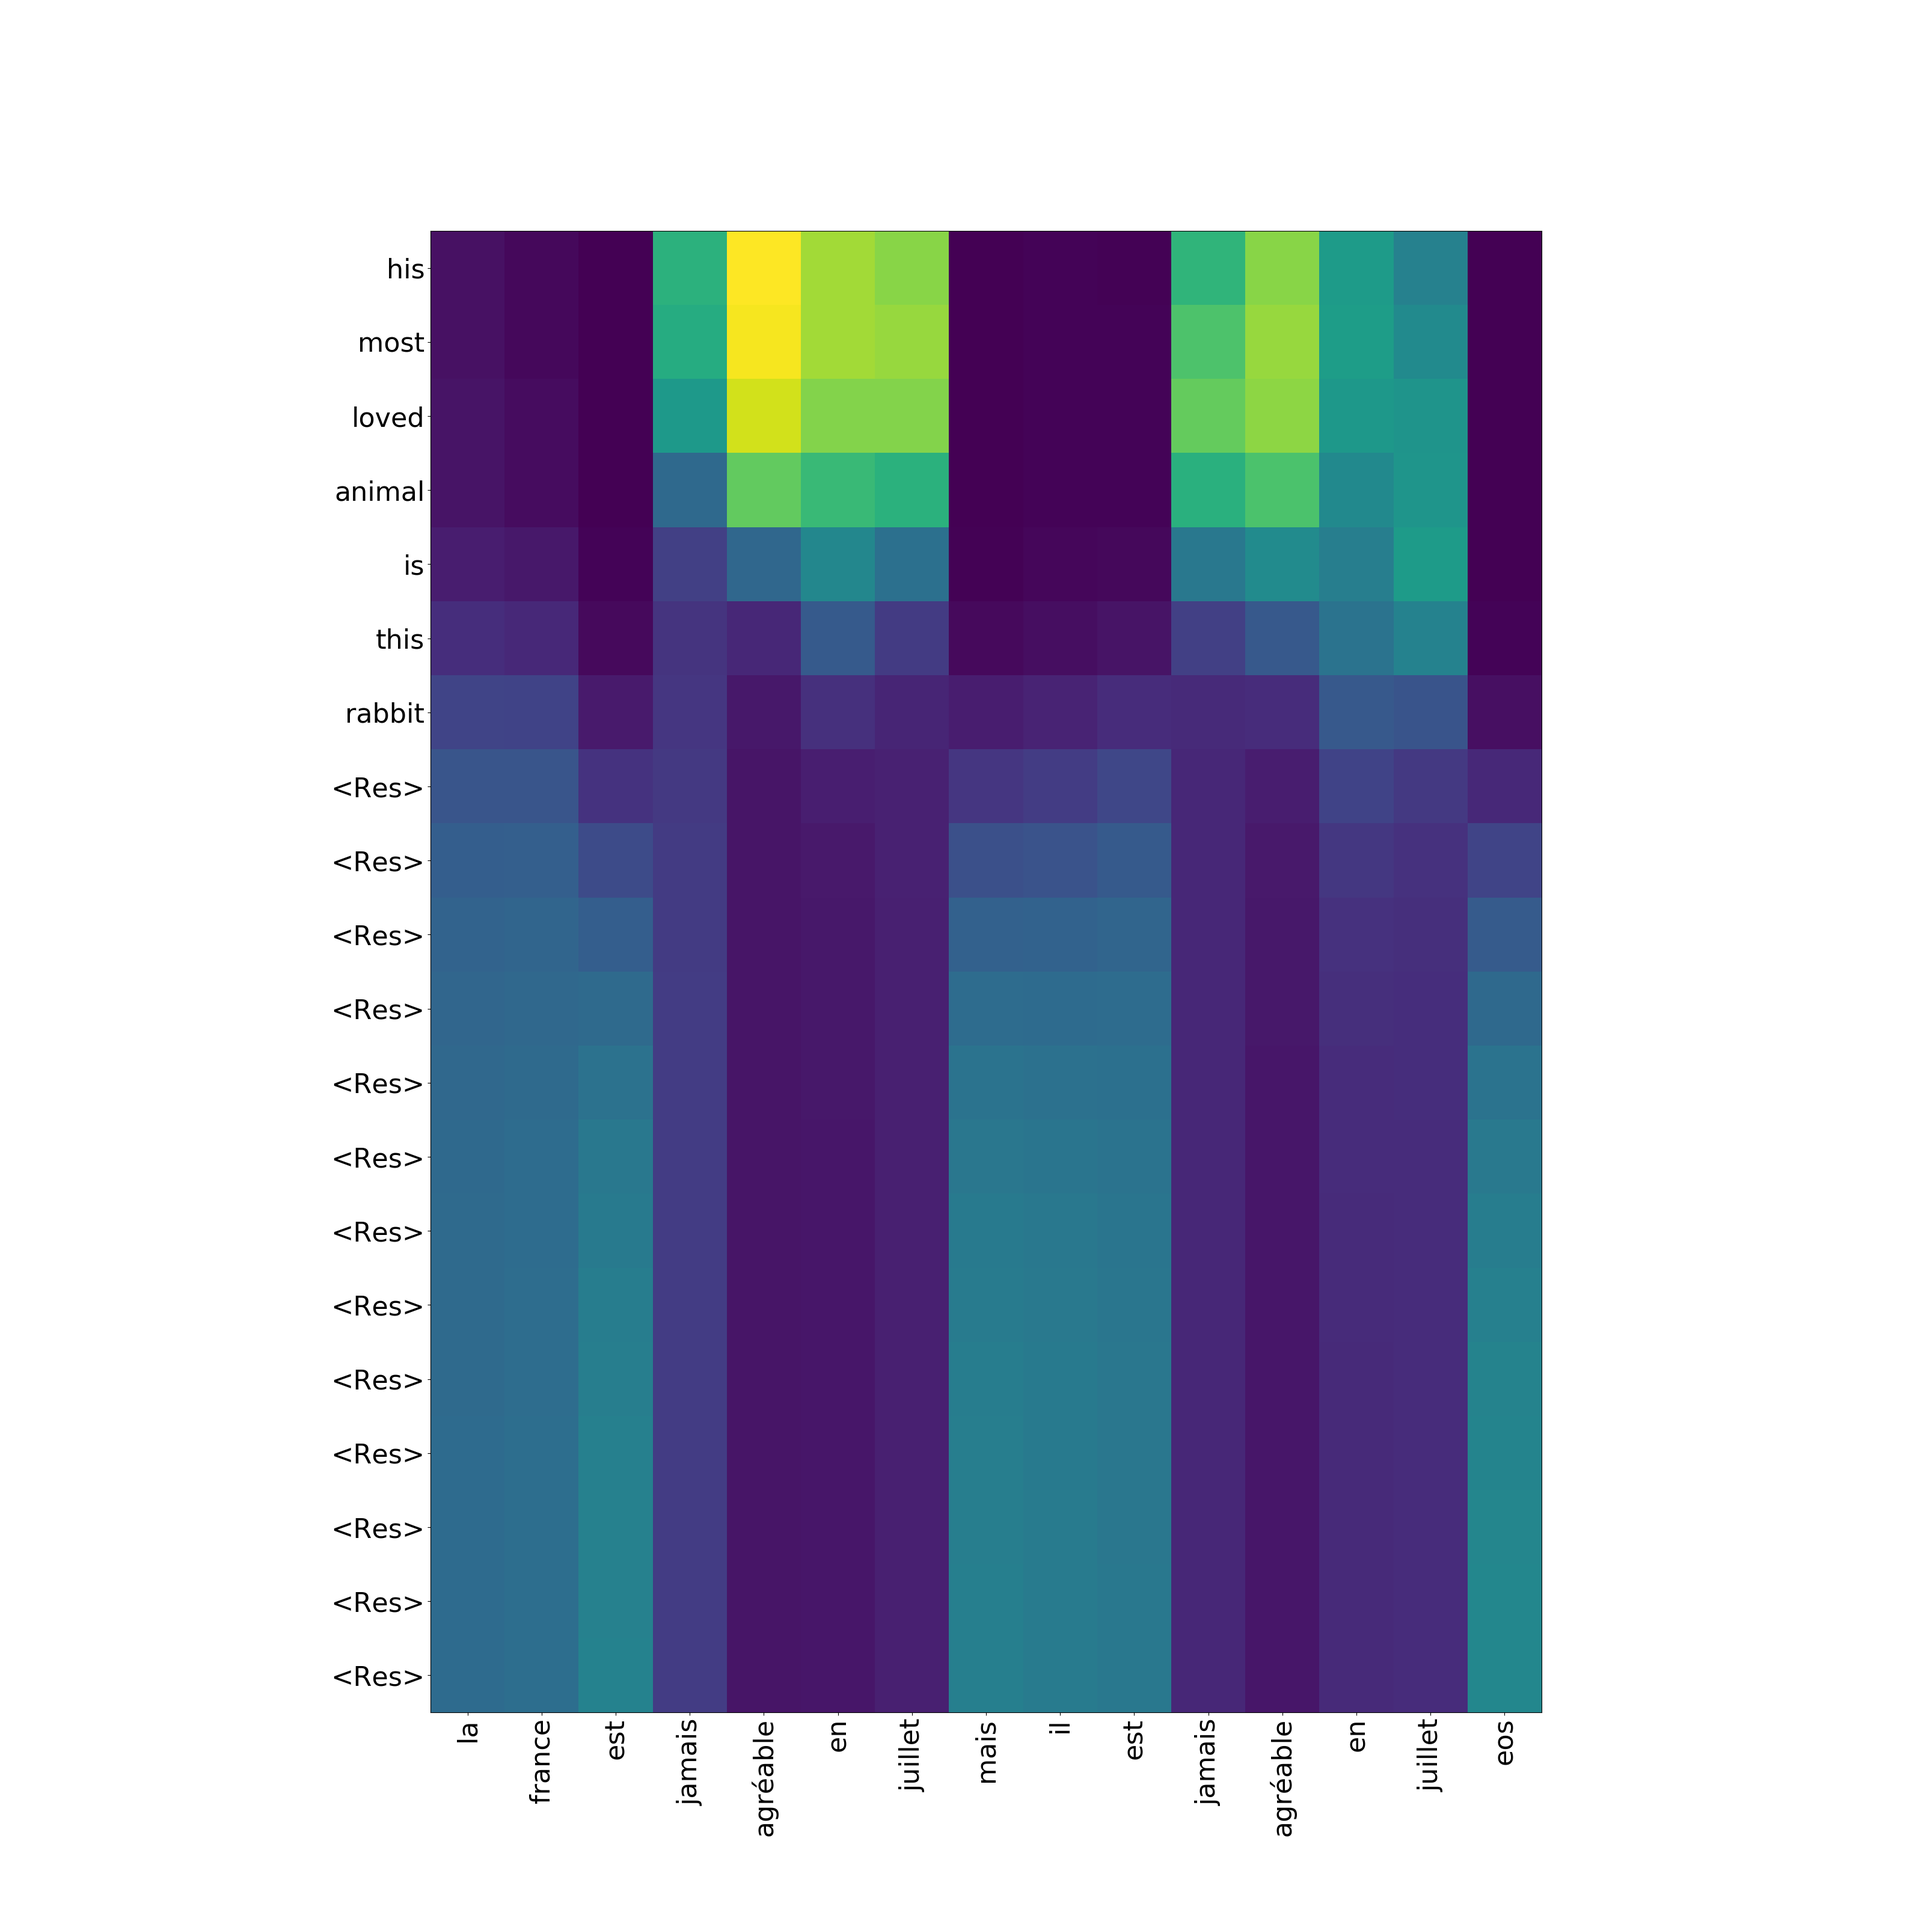
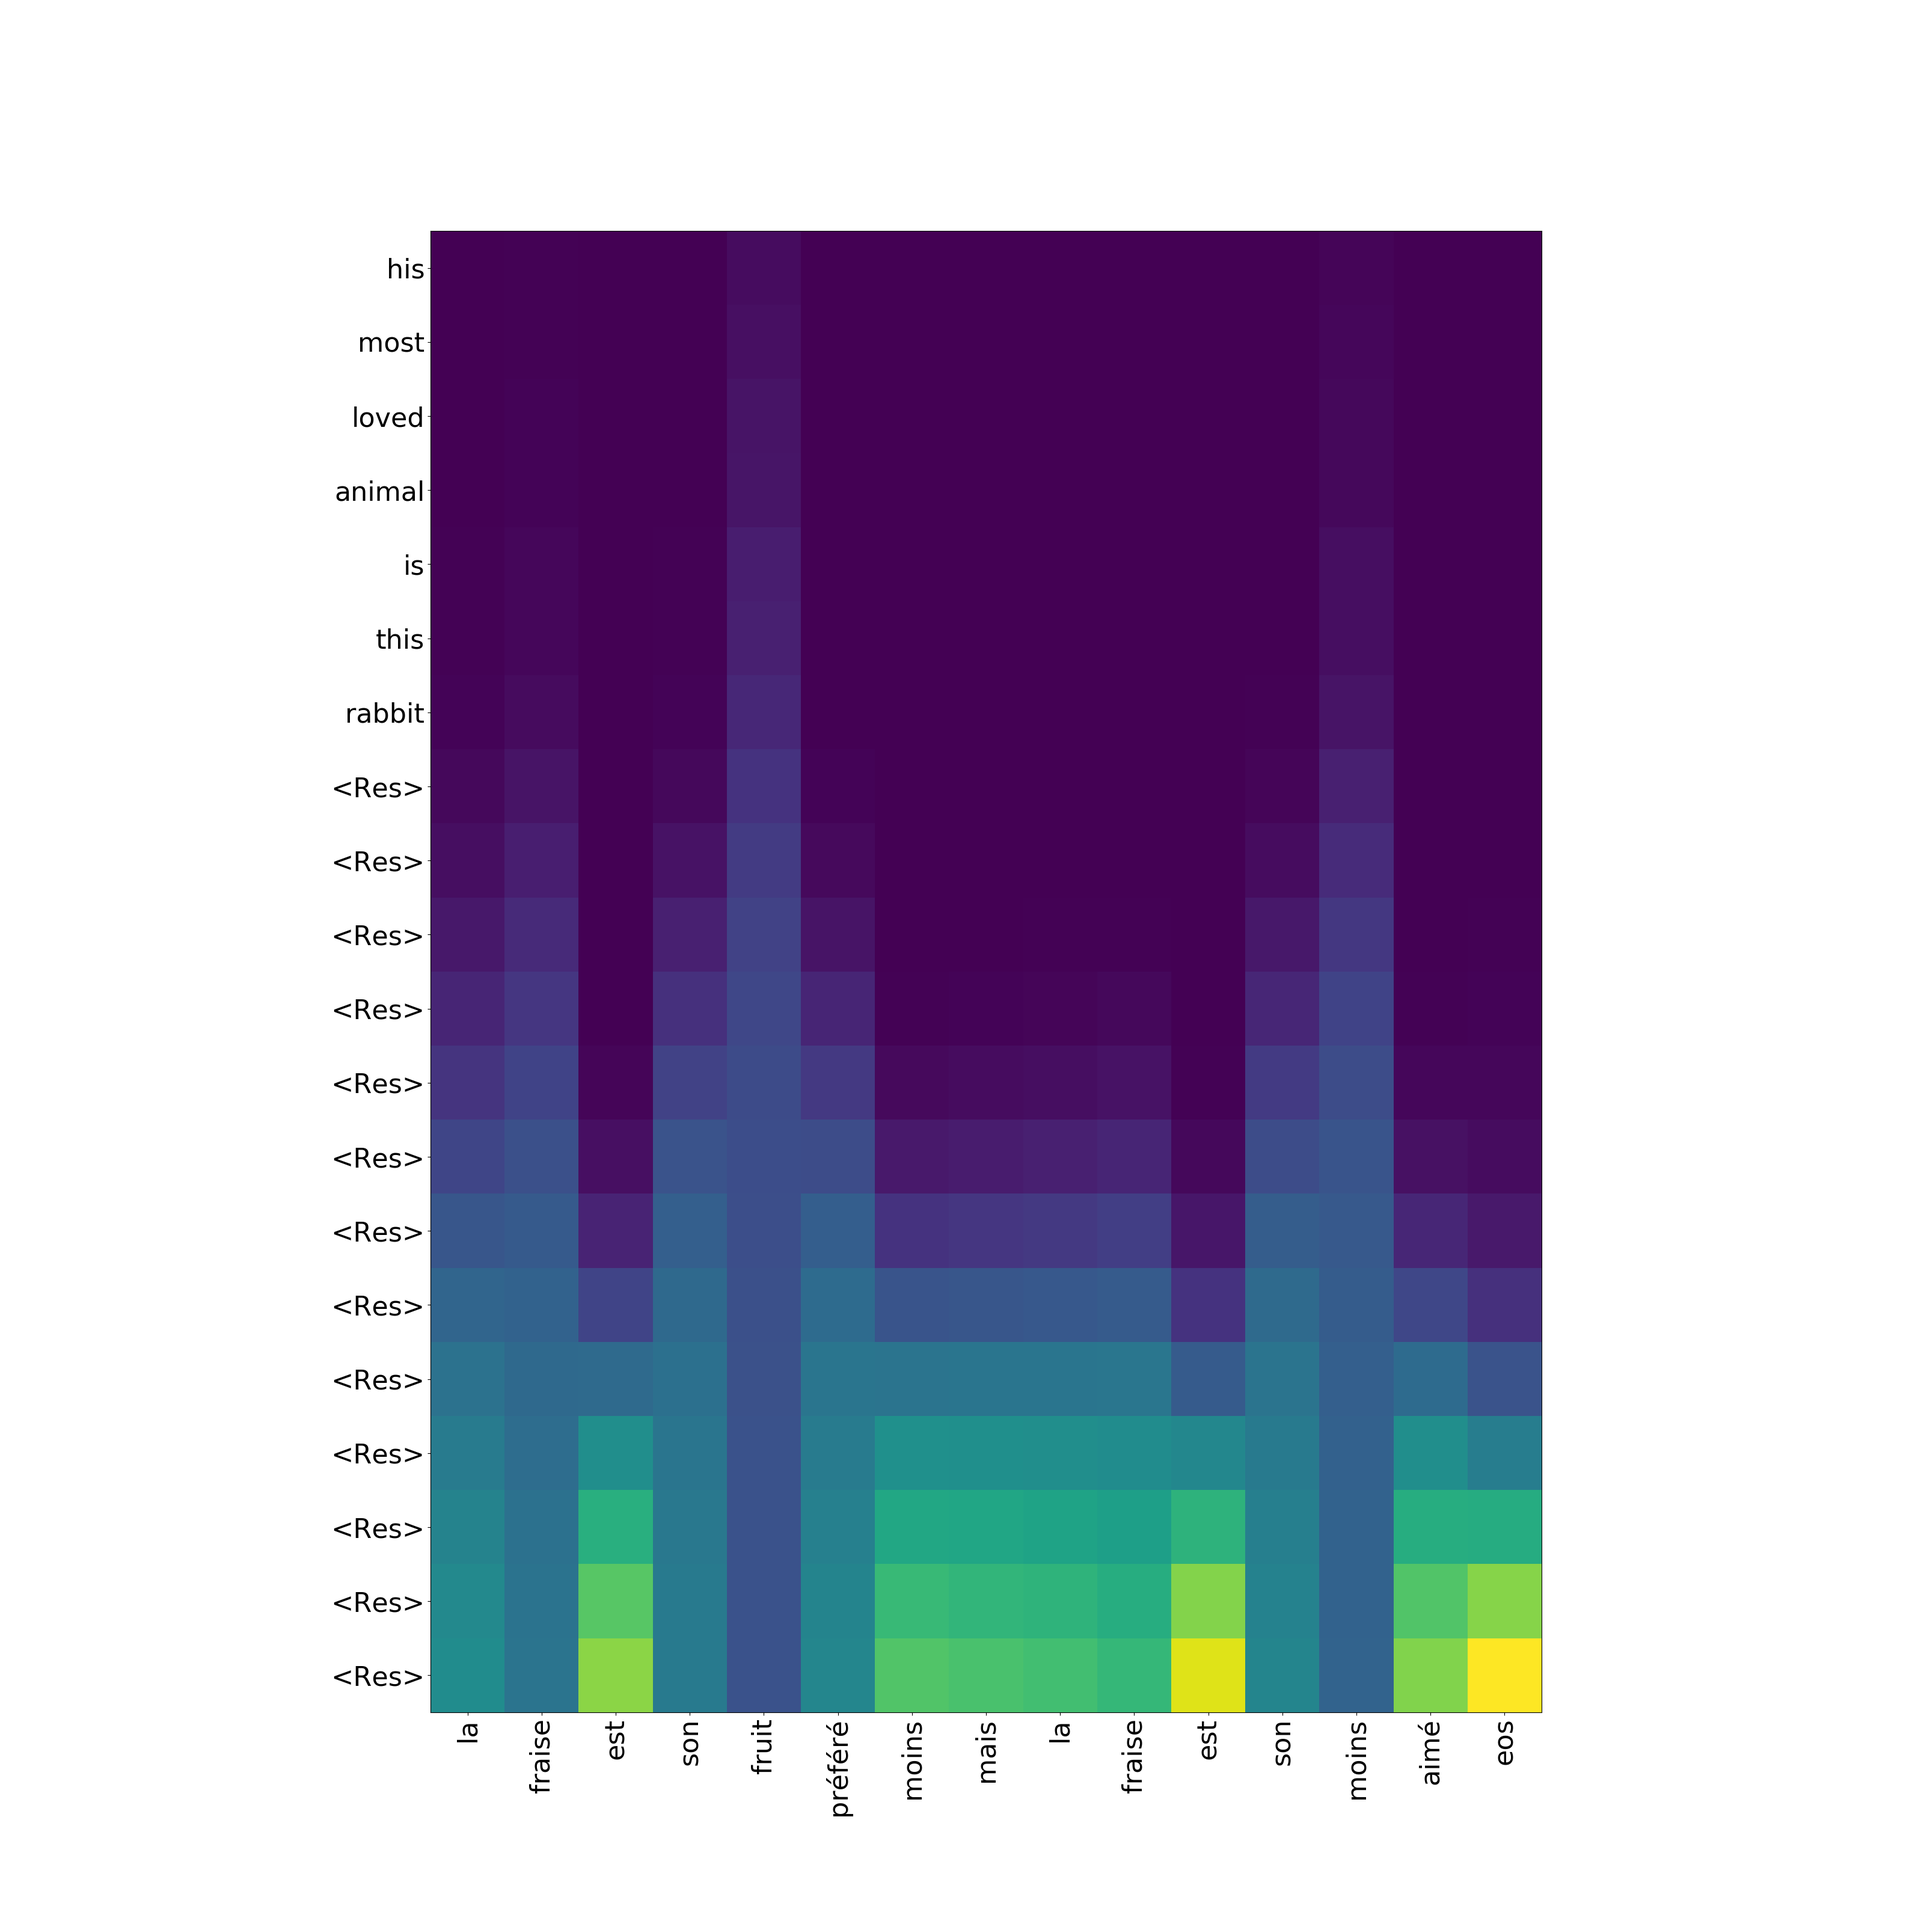
seemingly safe commit

diff --git a/attention_baseline.py b/attention_baseline.py
@@ -226,9 +226,7 @@ def infer_nmt(encoder_model, decoder_model, test_en_seq, en_vsize, fr_vsize):
 
 if __name__ == '__main__':
 
-    pass
-
-    ############################################################ EXPERIMENTAL SECTION 1 FOR RANDOM 0 PADDING
+    ############################################################ TRAIN MODEL WITH RANDOM 0 PADDED INPUTS
 
     # debug = True
     # """ Hyperparameters """
@@ -257,6 +255,72 @@ if __name__ == '__main__':
 
     ############################################################  TRAIN MODEL WITH INTERMEDIATE 0 PADDED INPUTS
 
+    # debug = True
+    # """ Hyperparameters """
+    #
+    # train_size = 100000 if not debug else 10000
+    # filename = ''
+    #
+    # tr_en_text, tr_fr_text, ts_en_text, ts_fr_text = get_data(train_size=train_size)
+    #
+    # """ Defining tokenizers """
+    # en_tokenizer = keras.preprocessing.text.Tokenizer(oov_token='UNK')
+    # en_tokenizer.fit_on_texts(tr_en_text)
+    #
+    # fr_tokenizer = keras.preprocessing.text.Tokenizer(oov_token='UNK')
+    # fr_tokenizer.fit_on_texts(tr_fr_text)
+    #
+    # """ Getting preprocessed data """
+    # en_seq, fr_seq = preprocess_data(en_tokenizer, fr_tokenizer, tr_en_text, tr_fr_text, en_timesteps, fr_timesteps)
+    #
+    # start_indices = []
+    # for e in en_seq:
+    #     start_indices.append(find_start_word(e))
+    #
+    # en_seq_padded, fr_seq_padded= add_intermediate_padding(en_seq, fr_seq)
+    #
+    # en_vsize = max(en_tokenizer.index_word.keys()) + 1
+    # fr_vsize = max(fr_tokenizer.index_word.keys()) + 1
+    #
+    # """ Defining the full model for padded inputs """
+    # # below line is for padded inputs of size 5
+    # full_model, infer_enc_model, infer_dec_model = define_nmt(
+    #     hidden_size=hidden_size, batch_size=batch_size,
+    #     en_timesteps=en_timesteps+5, fr_timesteps=fr_timesteps+5,
+    #     en_vsize=en_vsize, fr_vsize=fr_vsize)
+    #
+    # n_epochs = 10 if not debug else 3
+    #
+    # train(full_model, en_seq_padded, fr_seq_padded, batch_size, n_epochs)
+    #
+    # """ Save model """
+    #
+    # save_model(full_model,
+    #            pathtojson="./models/Attention_models/nmt_models/with_middlepads_100.json",
+    #            pathtoh5="./models/Attention_models/nmt_models/with_middlepads_100.h5")
+    #
+    # """ Index2word """
+    # en_index2word = dict(zip(en_tokenizer.word_index.values(), en_tokenizer.word_index.keys()))
+    # fr_index2word = dict(zip(fr_tokenizer.word_index.values(), fr_tokenizer.word_index.keys()))
+    #
+    # """ Inferring with trained model """
+    # test_en = ts_en_text[0]
+    # logger.info('Translating: {}'.format(test_en))
+    #
+    # test_en_seq = sents2sequences(en_tokenizer, [test_en], pad_length=en_timesteps)
+    # test_en_seq_padded, _ = add_intermediate_padding(test_en_seq)
+    # test_fr, attn_weights = infer_nmt(
+    #     encoder_model=infer_enc_model, decoder_model=infer_dec_model,
+    #     test_en_seq=test_en_seq_padded, en_vsize=en_vsize, fr_vsize=fr_vsize)
+    # logger.info('\tFrench: {}'.format(test_fr))
+    #
+    # """ Attention plotting """
+    # filename = "attention.png"
+    # plot_attention_weights(test_en_seq, attn_weights, en_index2word, fr_index2word, filename)
+
+
+    ############################################################ MAIN SECTION TO TRAIN DEFAULT NMT MODEL WITHOUT PADDING
+
     debug = True
     """ Hyperparameters """
 
@@ -275,38 +339,24 @@ if __name__ == '__main__':
     """ Getting preprocessed data """
     en_seq, fr_seq = preprocess_data(en_tokenizer, fr_tokenizer, tr_en_text, tr_fr_text, en_timesteps, fr_timesteps)
 
-    start_indices = []
-    for e in en_seq:
-        start_indices.append(find_start_word(e))
-
-    en_seq_padded, fr_seq_padded= add_intermediate_padding(en_seq, fr_seq)
-
     en_vsize = max(en_tokenizer.index_word.keys()) + 1
     fr_vsize = max(fr_tokenizer.index_word.keys()) + 1
 
     """ Defining the full model """
-    # below line is for padded inputs of size 5
     full_model, infer_enc_model, infer_dec_model = define_nmt(
         hidden_size=hidden_size, batch_size=batch_size,
-        en_timesteps=en_timesteps+5, fr_timesteps=fr_timesteps+5,
+        en_timesteps=en_timesteps, fr_timesteps=fr_timesteps,
         en_vsize=en_vsize, fr_vsize=fr_vsize)
 
-
-    # below line is default model with unpadded inputs
-    # full_model, infer_enc_model, infer_dec_model = define_nmt(
-    #     hidden_size=hidden_size, batch_size=batch_size,
-    #     en_timesteps=en_timesteps, fr_timesteps=fr_timesteps,
-    #     en_vsize=en_vsize, fr_vsize=fr_vsize)
-
     n_epochs = 10 if not debug else 3
-
-    train(full_model, en_seq_padded, fr_seq_padded, batch_size, n_epochs)
+    train(full_model, en_seq, fr_seq, batch_size, n_epochs)
 
     """ Save model """
 
+
     save_model(full_model,
-               pathtojson="./models/Attention_models/nmt_models/with_middlepads_100.json",
-               pathtoh5="./models/Attention_models/nmt_models/with_middlepads_100.h5")
+               pathtojson="./models/Attention_models/nmt_models/nmt_without_pads.json",
+               pathtoh5="./models/Attention_models/nmt_models/nmt_without_pads.h5")
 
     """ Index2word """
     en_index2word = dict(zip(en_tokenizer.word_index.values(), en_tokenizer.word_index.keys()))
@@ -317,70 +367,12 @@ if __name__ == '__main__':
     logger.info('Translating: {}'.format(test_en))
 
     test_en_seq = sents2sequences(en_tokenizer, [test_en], pad_length=en_timesteps)
-    test_en_seq_padded, _ = add_intermediate_padding(test_en_seq)
     test_fr, attn_weights = infer_nmt(
         encoder_model=infer_enc_model, decoder_model=infer_dec_model,
-        test_en_seq=test_en_seq_padded, en_vsize=en_vsize, fr_vsize=fr_vsize)
+        test_en_seq=test_en_seq, en_vsize=en_vsize, fr_vsize=fr_vsize)
     logger.info('\tFrench: {}'.format(test_fr))
 
     """ Attention plotting """
     filename = "attention.png"
     plot_attention_weights(test_en_seq, attn_weights, en_index2word, fr_index2word, filename)
-
-
-    ############################################################ MAIN SECTION TO TRAIN DEFAULT NMT MODEL WITHOUT PADDING
-
-    # debug = False
-    # """ Hyperparameters """
-    #
-    # train_size = 100000 if not debug else 10000
-    # filename = ''
-    #
-    # tr_en_text, tr_fr_text, ts_en_text, ts_fr_text = get_data(train_size=train_size)
-    #
-    # """ Defining tokenizers """
-    # en_tokenizer = keras.preprocessing.text.Tokenizer(oov_token='UNK')
-    # en_tokenizer.fit_on_texts(tr_en_text)
-    #
-    # fr_tokenizer = keras.preprocessing.text.Tokenizer(oov_token='UNK')
-    # fr_tokenizer.fit_on_texts(tr_fr_text)
-    #
-    # """ Getting preprocessed data """
-    # en_seq, fr_seq = preprocess_data(en_tokenizer, fr_tokenizer, tr_en_text, tr_fr_text, en_timesteps, fr_timesteps)
-    #
-    # en_vsize = max(en_tokenizer.index_word.keys()) + 1
-    # fr_vsize = max(fr_tokenizer.index_word.keys()) + 1
-    #
-    # """ Defining the full model """
-    # full_model, infer_enc_model, infer_dec_model = define_nmt(
-    #     hidden_size=hidden_size, batch_size=batch_size,
-    #     en_timesteps=en_timesteps, fr_timesteps=fr_timesteps,
-    #     en_vsize=en_vsize, fr_vsize=fr_vsize)
-    #
-    # n_epochs = 10 if not debug else 3
-    # train(full_model, en_seq, fr_seq, batch_size, n_epochs)
-    #
-    # """ Save model """
-    # if not os.path.exists(os.path.join('..', 'h5.models')):
-    #     os.mkdir(os.path.join('..', 'h5.models'))
-    # full_model.save(os.path.join('..', 'h5.models', 'nmt.h5'))
-    #
-    # save_model(full_model, pathtojson="./nmt_models/without_pads.json", pathtoh5="./nmt_models/without_pads.h5")
-    #
-    # """ Index2word """
-    # en_index2word = dict(zip(en_tokenizer.word_index.values(), en_tokenizer.word_index.keys()))
-    # fr_index2word = dict(zip(fr_tokenizer.word_index.values(), fr_tokenizer.word_index.keys()))
-    #
-    # """ Inferring with trained model """
-    # test_en = ts_en_text[0]
-    # logger.info('Translating: {}'.format(test_en))
-    #
-    # test_en_seq = sents2sequences(en_tokenizer, [test_en], pad_length=en_timesteps)
-    # test_fr, attn_weights = infer_nmt(
-    #     encoder_model=infer_enc_model, decoder_model=infer_dec_model,
-    #     test_en_seq=test_en_seq, en_vsize=en_vsize, fr_vsize=fr_vsize)
-    # logger.info('\tFrench: {}'.format(test_fr))
-    #
-    # """ Attention plotting """
-    # plot_attention_weights(test_en_seq, attn_weights, en_index2word, fr_index2word, base_dir=base_dir)
 
